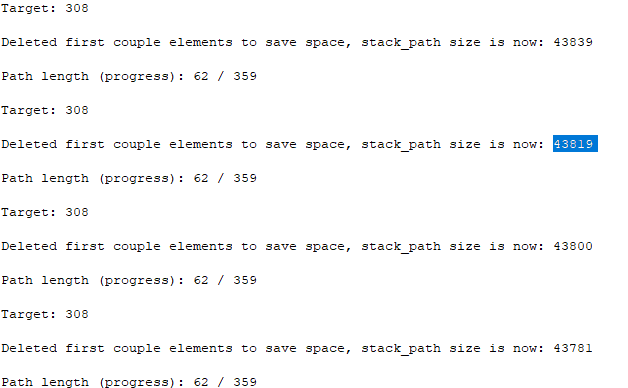
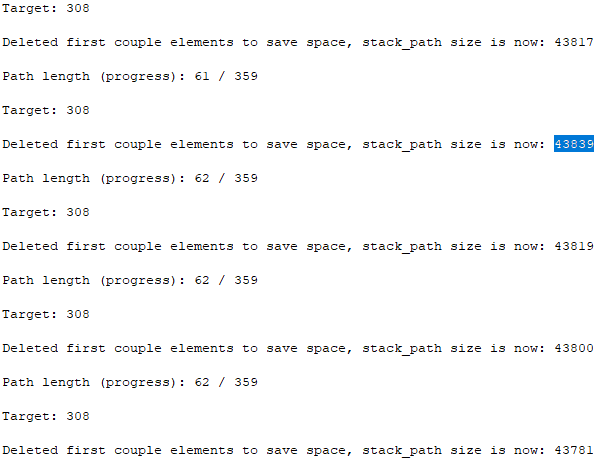
1. Updated README 2. Added pics

diff --git a/matching/src/main/java/org/delicacies/matching/Graphing.java b/matching/src/main/java/org/delicacies/matching/Graphing.java
@@ -51,9 +51,11 @@ import com.opencsv.exceptions.CsvValidationException;
 public class Graphing extends Arrange {
 
 	public static void main(String[] args) throws FileNotFoundException, IOException, CsvValidationException {
-		// TODO Auto-generated method stub
+		//Start the timer
+		double startTime = System.currentTimeMillis(); //or nanoTime()
+		
 		final Integer maxlimit = Integer.valueOf(0); //Set max algorithm path limit (in case of high player numbers)
-		final Integer length_of_paths_considered_complete = 308;
+		final Integer length_of_paths_considered_complete = 309;
 		final Integer stack_path_clearing_divisor_number = 500; // A Java server with 2GB RAM stack_path size can handle up to 400,000 before crashing (OutOfMemory Error) 
 		
 		// Find the current date and time in your system; to be used in naming the csv outputs
@@ -182,9 +184,13 @@ public class Graphing extends Arrange {
         } 
         System.out.println("\n=============Graph path found for desired path length " + length_of_paths_considered_complete + "! Algorithm stopped.=============");
         
-        
-        
-        
+        //Stop the timer
+        double endTime = System.currentTimeMillis(); // NOTE: Integer division will give only an integer result. See https://stackoverflow.com/questions/33273809/how-to-get-java-to-produce-decimal-points-while-dividing
+		double duration = (endTime - startTime)/1000;  //if nanoTime() is used, divide by 1000000 to get milliseconds.
+		System.out.println("\nstartTime = **"+ startTime + "** milliseconds");
+		System.out.println("\nendTime = **"+ endTime + "** milliseconds");
+		System.out.println("\nThe script took **"+ duration + "** seconds to find a solution!");
+		
         List<Player> rejected_player_list = return_rejected_player_list(player_list, accepted_player_list);
         try {
         writeRowsToCsv(accepted_players_csv_output, accepted_player_list, mappingStrategy);

diff --git a/README.md b/README.md
@@ -180,12 +180,12 @@ Using the player list, we put all of the players in a directed graph using the f
 
 *Directed Graph* is a **data structure type** available in the *JGraphT* Java module. [Click here to learn more about directed graphs](https://mathworld.wolfram.com/DirectedGraph.html)
 
-The cool thing about Graph objects in Java is that you get to set the *Edges* for each vertex. An *Edge* of a vertex is another vertex that it can link up with (i.e. a suitable match). Thus, we created a *get_player_edges_from_player_list* function which processes the entire *player_list* and generates the *Edges*. For example, if *Player_one* and *Player_two* are suitable matches, then an *Edge* of (*Player_one*, *Player_two*) can be **added** into the *directedGraph*.
+The cool thing about *Graph* objects in Java is that you get to set the *Edges* for each vertex. An *Edge* of a vertex is another vertex that it can link up with (i.e. a suitable match). Thus, we created a *get_player_edges_from_player_list* function which processes the entire *player_list* and generates the *Edges*. For example, if *Player_one* and *Player_two* are suitable matches, then an *Edge* of (*Player_one*, *Player_two*) can be **added** into the *directedGraph*.
 
 > EXTRA Advanced info: An *Edge* object in the *JGraphT* Java module is essentially the same as a *Pair* object in Java. Thus, my *get_player_edges_from_player_list* function returns a *Pair* object which I used to input as an *Edge* in *directedGraph*. 
 
 <ins>How this applies to Delicacies Matchmaking:</ins>\
-We want every player to be a vertex (aka point) on a graph.
+We want every player to be a vertex (aka a point) on a graph.
 
 Then, we want to draw a line through as many players as possible, where **every  connection of one player to another in the graph means the two players are suitable matches** (i.e. matchmaking preferences respected).
 Drawing a line through every vertex forms a **directed** graph.
@@ -197,7 +197,7 @@ List<Player> player_list = DijkstraShortestPath.findPathBetween(graph, starting_
 
 [Dijikstra's shortest path algorithm runs with a time complexity of O(E + VLogV) time.](https://www.geeksforgeeks.org/shortest-path-for-directed-acyclic-graphs/)
 
-But we cannot have most of our Players not getting any suitable matches. Thus, in our case, we need to find the longest path from any one *Player* vertex to the next, and choose the longest path. [Unfortunately, finding the longest path in any general path is **NP-hard**.](https://www.geeksforgeeks.org/find-longest-path-directed-acyclic-graph/) In simpler terms, [NP-hard](https://simple.wikipedia.org/wiki/NP-hardness#:~:text=An%20NP%2Dhard%20problem%20is,be%20checked%20as%20being%20true.) means that even the fastest computers in the world cannot find a **perfect** solution.
+But we cannot use this algorithm as most of our Players would not get any suitable matches. Thus, in our case, we need to find the longest path from any one *Player* vertex to the next, and choose the longest path. [Unfortunately, finding the longest path in any general path is **NP-hard**.](https://www.geeksforgeeks.org/find-longest-path-directed-acyclic-graph/) In simpler terms, [NP-hard](https://simple.wikipedia.org/wiki/NP-hardness#:~:text=An%20NP%2Dhard%20problem%20is,be%20checked%20as%20being%20true.) means that even the fastest computers in the world cannot find a **perfect** solution.
 
 >However, do we really need a perfect solution?
 
@@ -267,6 +267,12 @@ If no accepted_player_list is generated, then the DFS algorithm is run again. Si
 
 To create the DFS algorithm, we have to play around with the *Stack* Java data structures. A *Stack* is an advanced kind of *List*; with a *push* command, you add something to the top of the stack, and with a *pop* command, you remove something from the top of the stack (i.e. remove the most recently added item).
 
+> **IMPT:** The *Stack* is **crucial** in this algorithm. We aim to build a stack of possible paths that are possible solutions, with the longest path being at the top. 
+> To continue finding the longest path, we take the longest path we have at the top of the stack, and then add one more suitable match of the previous player, then add this new path back to the stack. This process repeats to try to find the longest path.
+> But in the event that the newly added player is a dead end, i.e. has 0 possible matches, then the algorithm will remove this dead-end path from the top of the *Stack*, and continue building the path from the **previous player** (i.e. using the next topmost path in the *Stack*). **In this way, the *Stack* enables Java to throw away paths that lead to dead-ends and reverse back to shorter paths before continuing to build a longer path from there, without going back to paths that Java has already processed before.** Thus, the *Stack* data structures are core to the Depth-First Search algorithm.
+
+> **IMPT:** The *Stack* is also essential in preventing Java from re-processing longer paths that it had already traversed before. This is because, whenever Java regresses to a shorter path multiple times from (possibly multiple) dead-end longer paths, all the paths that lead to the dead-end path have already been removed from the *Stack*.
+
 | ![](./matching/pics/java-stack.png)
 |:---:| 
 |*Pushing and Popping a Stack Java data structure*|
@@ -279,6 +285,10 @@ We choose a random player from *listOfNodes* as the first player, and add it to 
 
 <ins>We will create **2** *Stacks*:</ins>
 1. *stack_graph* to store a stack of SCC graphs (of the highest number of vertices)
+
+> **IMPT:** The stack_graph is essential in finding neighbours of its associated path. A longer path is generated by finding the neighbours of the last player in the path. Whenever all possibilities of a longer path is generated with the **addition of 1 neighbour**, the player is removed from its associated graph so that future longer paths will never suggest paths that terminate onto itself. *(FYI: the player was just used to find its neighbours)*.
+> For every possibility generated, a path is added back to the *stack_path* **at the same order/level** as its graph that is also added to *stack_graph*. This is how we ensure that the **path** and **graph** in *stack_path* and *stack_graph* always correspond with each other.
+
 2. *stack_path* to store a stack of *Lists* of players. Each *List* is a possible *Hamiltonian* path, and we would choose the *List* with the greatest number of players (i.e. the longest path) from this *Stack*, and we would get the solution we need.
 
 As the very first step in the DFS algorithm, we will add *start* into *stack_path* as a possible answer. 
@@ -337,6 +347,43 @@ To prevent [OutOfMemoryError](https://rollbar.com/blog/how-to-handle-outofmemory
 
 | ![](./matching/pics/OOM1.png)
 |:---:| 
-|*With stack_path_clearing_divisor_number set as 500, the maximum number of stack_path is 43819. Notice how the size of stack_path decreases as time goes on - which corresponds to how the first elements are still being deleted & there are lesser possibilities of matching with the lesser number of matches left*|
+|*With stack_path_clearing_divisor_number set as 500, the maximum number of stack_path is 43839. Notice how the size of stack_path decreases as time goes on - which corresponds to how the first elements are still being deleted & there are lesser possibilities of matching with the lesser number of matches left*|
 
-###### E. Final touch-ups
+###### E. Demonstration of the algorithm (in pictures)
+We will use a demonstration with simulated player data of 364 sign-ups.
+
+We will set:
+```
+final Integer length_of_paths_considered_complete = 310;
+final Integer stack_path_clearing_divisor_number = 500;
+```
+
+| ![](./matching/pics/demo0.png)
+|:---:| 
+|*Simulated Excel file of 364 signups to be imported into the Java script*|
+
+| ![](./matching/pics/demo1.png)
+|:---:| 
+|*Starting the algorithm: Date & Timing is detected, and a list of player edges is created based on matchmaking preferences in player_list. Every player is labelled with their Telegram usernames*|
+
+| ![](./matching/pics/demo2.png)
+|:---:| 
+|After all the player edges have been added, dfsWithoutRecursion now runs on the directedGraph, and starts formulating a path to our target of **309 players**|
+
+| ![](./matching/pics/demo3.png)
+|:---:| 
+|When a possible path of 309 players is found, the DFS algorithm stops and exports out this path in the *directedGraph* as an Excel file. The script took only **98.812 seconds** to find a solution!|
+
+| ![](./matching/pics/demo3.png)
+|:---:| 
+|In another re-run of this script, we set a target of 311 players which **may be too high** for the graph to find a possible path in **non-deterministic polynomial time** (even a supercomputer may take a long time [or forever] to find a perfect answer). This is evidenced from how the script is **forever stuck in the loop of finding the longest path**.|
+
+In this runtime, the script **failed** to find a solution of 311 players.
+
+However, **a different runtime of the script may find a solution** for 311 players as the starting player of the path & the possibilities generated will be different. Thus, this algorithm is **non-deterministic**; it gives *variable results* every time you run the script for the *same input*.
+
+Thus, our next goal is to **re-run the script with the target set at 310** instead, and see if we could find a **better solution** than the previous solution of 309 players.
+
+| ![](./matching/pics/demo4.png)
+|:---:|
+|Script stuck in a possibly ?forever loop of finding a path with 310 players until finally it managed to find a solution after **135.958 seconds**. Thus we can assume that the Excel file 310 is the best solution we can|
